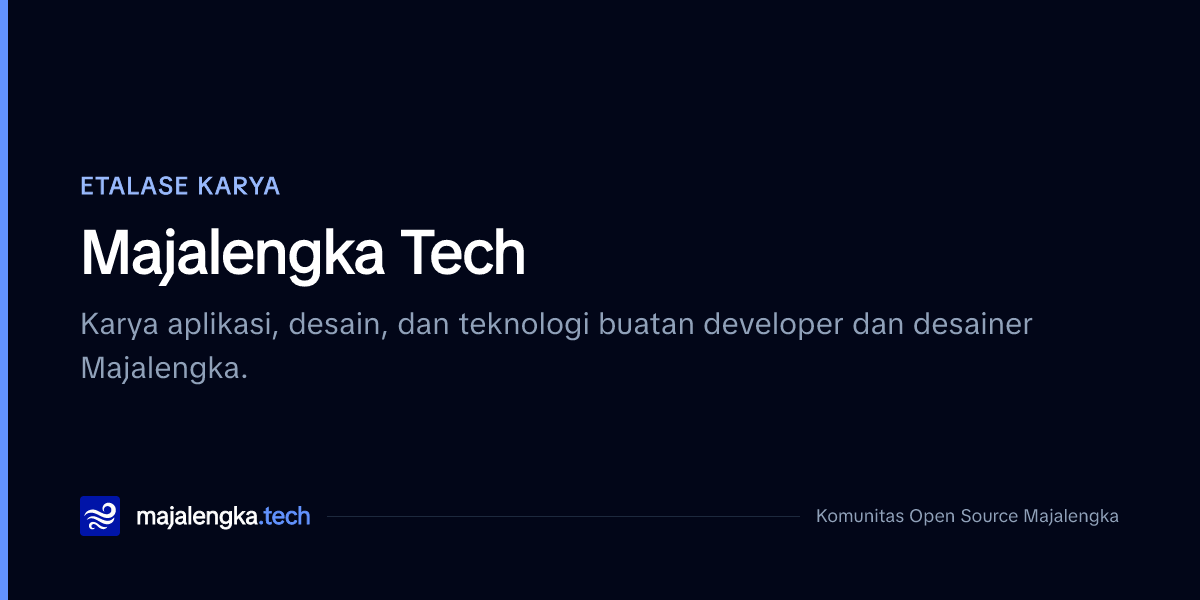
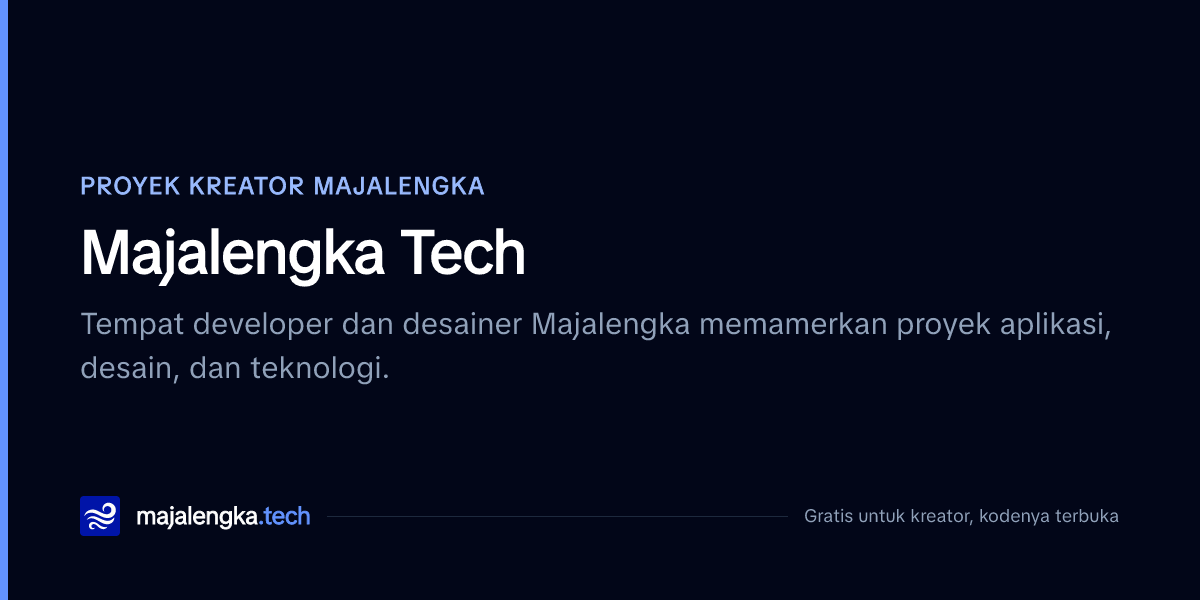
chore: keep site management wording neutral and refresh default og image
- public pages, docs, changelog and README say "pengelola situs" or "kurator" instead of "admin"
- default og image uses the new "proyek" wording; template footer no longer repeats the description
- home SEO description matches the new tagline

diff --git a/app/pages/projek/[slug].vue b/app/pages/projek/[slug].vue
@@ -116,8 +116,8 @@ useReveal(useTemplateRef<HTMLElement>('others'))
 			icon="i-lucide-eye-off"
 			title="Proyek ini masih Draf"
 			:description="project.isOwner
-				? 'Hanya kamu dan admin yang bisa melihat halaman ini. Terbitkan dari dashboard kalau sudah siap dipamerkan.'
-				: 'Halaman ini hanya bisa dilihat pemiliknya dan admin.'"
+				? 'Hanya kamu dan pengelola situs yang bisa melihat halaman ini. Terbitkan dari dashboard kalau sudah siap dipamerkan.'
+				: 'Halaman ini hanya bisa dilihat pemiliknya dan pengelola situs.'"
 			:actions="[{ label: 'Edit Proyek', to: `/dashboard/projects/${project.id}`, color: 'warning', variant: 'outline' }]"
 		/>
 

diff --git a/app/components/project/Form.vue b/app/components/project/Form.vue
@@ -493,7 +493,7 @@ async function onSubmit(event: FormSubmitEvent<ProjectInput>) {
 					<USwitch
 						v-model="state.isPublished"
 						label="Terbitkan di showcase"
-						description="Matikan untuk menyimpan sebagai Draf. Draf hanya bisa dilihat olehmu dan admin."
+						description="Matikan untuk menyimpan sebagai Draf. Draf hanya bisa dilihat olehmu dan pengelola situs."
 					/>
 				</div>
 			</UCard>

diff --git a/app/components/OgImage/Saas.takumi.vue b/app/components/OgImage/Saas.takumi.vue
@@ -54,7 +54,7 @@ defineProps<{
 					majalengka<span class="text-[#6293ff] font-extrabold">.tech</span>
 				</span>
 				<div class="h-px flex-1 bg-neutral-800" />
-				<span class="text-lg font-medium text-neutral-400">Komunitas Open Source Majalengka</span>
+				<span class="text-lg font-medium text-neutral-400">Gratis untuk kreator, kodenya terbuka</span>
 			</div>
 		</div>
 	</div>

diff --git a/content/4.changelog/12.v0-12-0-bahasa-proyek-dan-kelola-proyek.md b/content/4.changelog/12.v0-12-0-bahasa-proyek-dan-kelola-proyek.md
@@ -1,6 +1,6 @@
 ---
 title: "v0.12.0: Bahasa yang Lebih Akrab dan Halaman Kelola Proyek"
-description: "Istilah \"karya\" diganti \"proyek\", teks di semua halaman dibuat lebih lugas, dan admin kini bisa mengelola semua proyek dari satu halaman."
+description: "Istilah \"karya\" diganti \"proyek\", teks di semua halaman dibuat lebih lugas, dan pengelola situs kini bisa mengelola semua proyek dari satu halaman."
 date: "2026-10-03"
 image: ""
 ---
@@ -16,16 +16,16 @@ Kami juga berhenti menyebut Majalengka Tech sebagai "etalase". Sekarang kalimatn
 Kami membaca ulang teks di semua halaman supaya terdengar seperti orang yang bicara, bukan surat resmi:
 
 - Pesan seperti "Silakan masuk terlebih dahulu" kini cukup "Masuk dulu untuk melanjutkan."
-- "Password" dan "Role" di halaman admin diganti "kata sandi" dan "peran", sama dengan halaman masuk.
+- "Password" dan "Role" di halaman pengelolaan diganti "kata sandi" dan "peran", sama dengan halaman masuk.
 - Judul notifikasi tidak lagi memakai Huruf Besar di Setiap Kata, misalnya "Proyek belum terhapus".
 - Badge **Terbuka untuk project** sekarang berbunyi **Terbuka untuk kerja sama**.
 - Catatan rilis v0.1.0 sampai v0.4.0 ditulis ulang dengan bahasa yang sama.
 
-## Admin bisa mengelola semua proyek
+## Pengelola situs bisa mengelola semua proyek
 
-- Halaman baru **Kelola Proyek** menampilkan semua proyek yang masuk, termasuk yang masih Draf. Admin bisa mencari, menyaring Terbit atau Draf, mengedit, menghapus, dan memilih proyek untuk **Pilihan Kurator** langsung dari sana.
-- Di halaman proyek, admin kini juga melihat tombol **Edit** dan **Hapus**.
-- Saat admin mengedit proyek orang lain, form memberi tahu proyek siapa yang sedang diubah, dan gambar yang diunggah disimpan di folder milik pemilik proyek.
+- Halaman baru **Kelola Proyek** menampilkan semua proyek yang masuk, termasuk yang masih Draf. Pengelola situs bisa mencari, menyaring Terbit atau Draf, mengedit, menghapus, dan memilih proyek untuk **Pilihan Kurator** langsung dari sana.
+- Di halaman proyek, pengelola situs kini juga melihat tombol **Edit** dan **Hapus**.
+- Saat pengelola situs mengedit proyek orang lain, form memberi tahu proyek siapa yang sedang diubah, dan gambar yang diunggah disimpan di folder milik pemilik proyek.
 
 ## Halaman Kelola yang lebih rapi
 

diff --git a/content/4.changelog/3.v0-3-0-better-auth-cloudflare-d1-dan-r2.md b/content/4.changelog/3.v0-3-0-better-auth-cloudflare-d1-dan-r2.md
@@ -1,6 +1,6 @@
 ---
 title: "v0.3.0: Login dengan Better Auth, Database D1, dan Dashboard"
-description: "Login lewat Google dan GitHub dengan Better Auth, database Cloudflare D1, dashboard untuk mengelola proyek, dan halaman Kelola untuk admin."
+description: "Login lewat Google dan GitHub dengan Better Auth, database Cloudflare D1, dashboard untuk mengelola proyek, dan halaman Kelola untuk pengelola situs."
 date: "2026-09-16"
 image: ""
 ---
@@ -12,5 +12,5 @@ Rilis ini memberi Majalengka Tech sistem login dan database, jadi setiap kreator
 - **Login dengan Better Auth.** Kamu bisa masuk dengan satu klik lewat akun GitHub atau Google.
 - **Database Cloudflare D1.** Tabel pengguna, sesi, akun login, dan proyek tersimpan di D1. Setiap proyek terhubung ke pemiliknya (`user_id REFERENCES user(id)`).
 - **Dashboard.** Di `/dashboard` kamu bisa mengelola proyekmu, memperbarui profil, dan mengunggah thumbnail.
-- **Halaman Kelola untuk admin.** `/kelola` hanya bisa dibuka admin, untuk merapikan daftar proyek dan akun.
+- **Halaman Kelola untuk pengelola situs.** `/kelola` hanya bisa dibuka pengelola situs, untuk merapikan daftar proyek dan akun.
 - **File di R2 ikut dibersihkan.** Saat proyek dihapus atau thumbnail diganti, file lamanya ikut terhapus, jadi tidak ada gambar yatim yang menumpuk di Cloudflare R2.

diff --git a/content/1.docs/1.getting-started/2.pamerkan-karya.md b/content/1.docs/1.getting-started/2.pamerkan-karya.md
@@ -40,13 +40,13 @@ Ketik nama teknologi atau alat yang kamu pakai, lalu tekan Enter setelah setiap 
 ## Terbit atau Draf
 
 - **Terbit:** proyek tampil di showcase, beranda, dan profilmu.
-- **Draf:** hanya kamu dan admin yang bisa membuka halamannya. Pengunjung lain mendapat halaman "tidak ditemukan".
+- **Draf:** hanya kamu dan pengelola situs yang bisa membuka halamannya. Pengunjung lain mendapat halaman "tidak ditemukan".
 
 Status ini bisa diubah kapan saja lewat sakelar **Terbitkan di showcase**.
 
 ## Pilihan Kurator
 
-Admin bisa menandai proyek sebagai **Pilihan Kurator**. Proyek yang dipilih mendapat tanda khusus dan tampil di bagian atas beranda. Penanda ini tidak bisa diatur sendiri oleh pemilik proyek.
+Kurator Majalengka Tech bisa menandai proyek sebagai **Pilihan Kurator**. Proyek yang dipilih mendapat tanda khusus dan tampil di bagian atas beranda. Penanda ini tidak bisa diatur sendiri oleh pemilik proyek.
 
 ## Menghapus proyek
 

diff --git a/README.md b/README.md
@@ -16,7 +16,7 @@ Tempat developer dan desainer Majalengka memamerkan proyeknya, membangun profil,
 - **Apresiasi dan komentar.** Pengunjung yang sudah masuk bisa memberi apresiasi dan menulis komentar.
 - **Profil kreator** di `majalengka.tech/username`, lengkap dengan kartu kreator yang bisa diunduh dan dipakai sebagai pratinjau link.
 - **Dashboard kreator.** Pamerkan proyek baru, simpan sebagai Draf, edit profil, dan cek kelengkapan profil.
-- **Halaman admin.** Kelola Pengguna dan Kelola Proyek, termasuk memilih proyek untuk Pilihan Kurator.
+- **Halaman pengelola.** Kelola Pengguna dan Kelola Proyek, termasuk memilih proyek untuk Pilihan Kurator.
 - **Panduan dan catatan rilis** di `/docs` dan `/changelog`.
 - **Konten untuk alat AI** di `/llms.txt` dan `/llms-full.txt`.
 

diff --git a/content/4.changelog/5.v0-5-0-fondasi-etalase-kreator.md b/content/4.changelog/5.v0-5-0-fondasi-etalase-kreator.md
@@ -17,7 +17,7 @@ Majalengka Tech sekarang punya arah yang lebih jelas: **tempat developer dan des
 
 - Gambar yang kamu unggah kini tersimpan di folder milikmu sendiri, dan hanya bisa dihapus lewat proyekmu.
 - File SVG tidak bisa diunggah lagi, dan semua file unggahan disajikan tanpa izin menjalankan script.
-- Hak admin ditentukan oleh peran akun, bukan oleh alamat email.
+- Hak pengelola situs ditentukan oleh peran akun, bukan oleh alamat email.
 - Proyek berstatus Draf hanya terlihat oleh pemiliknya.
 - Kamu tidak bisa memberi ulasan untuk proyekmu sendiri.
 - Menghapus proyek dari halaman Ringkasan dashboard sekarang meminta konfirmasi dulu.

diff --git a/content/1.docs/1.getting-started/3.profil-kreator.md b/content/1.docs/1.getting-started/3.profil-kreator.md
@@ -10,7 +10,7 @@ Atur profilmu di **Dashboard → Edit Profil**. Setelah username terisi, profil 
 - Panjangnya **3 sampai 30 karakter**.
 - Hanya huruf kecil, angka, tanda `-`, dan `_`. Tidak boleh diawali atau diakhiri tanda `-` atau `_`.
 - Satu username hanya bisa dipakai satu orang.
-- Beberapa nama tidak bisa dipakai karena bentrok dengan alamat halaman situs, misalnya `admin`, `dashboard`, `docs`, `projek`, dan `tentang`.
+- Beberapa nama tidak bisa dipakai karena bentrok dengan alamat halaman situs, misalnya `dashboard`, `docs`, `projek`, dan `tentang`.
 
 ## Isian profil
 

diff --git a/content/1.docs/1.getting-started/4.apresiasi-dan-komentar.md b/content/1.docs/1.getting-started/4.apresiasi-dan-komentar.md
@@ -14,6 +14,6 @@ description: Cara memberi apresiasi dan komentar, serta siapa yang bisa menghapu
 
 - Komentar ada di bagian bawah halaman proyek. Kamu perlu masuk dulu untuk menulisnya.
 - Panjang komentar 2 sampai 1.000 karakter.
-- Komentar bisa dihapus oleh **penulisnya**, **pemilik proyek**, atau **admin**.
+- Komentar bisa dihapus oleh **penulisnya**, **pemilik proyek**, atau **pengelola situs**.
 
 Tuliskan apa yang menarik dari proyek itu, atau masukan yang bisa membantu kreatornya. Kritik yang membangun lebih berguna daripada pujian singkat.
